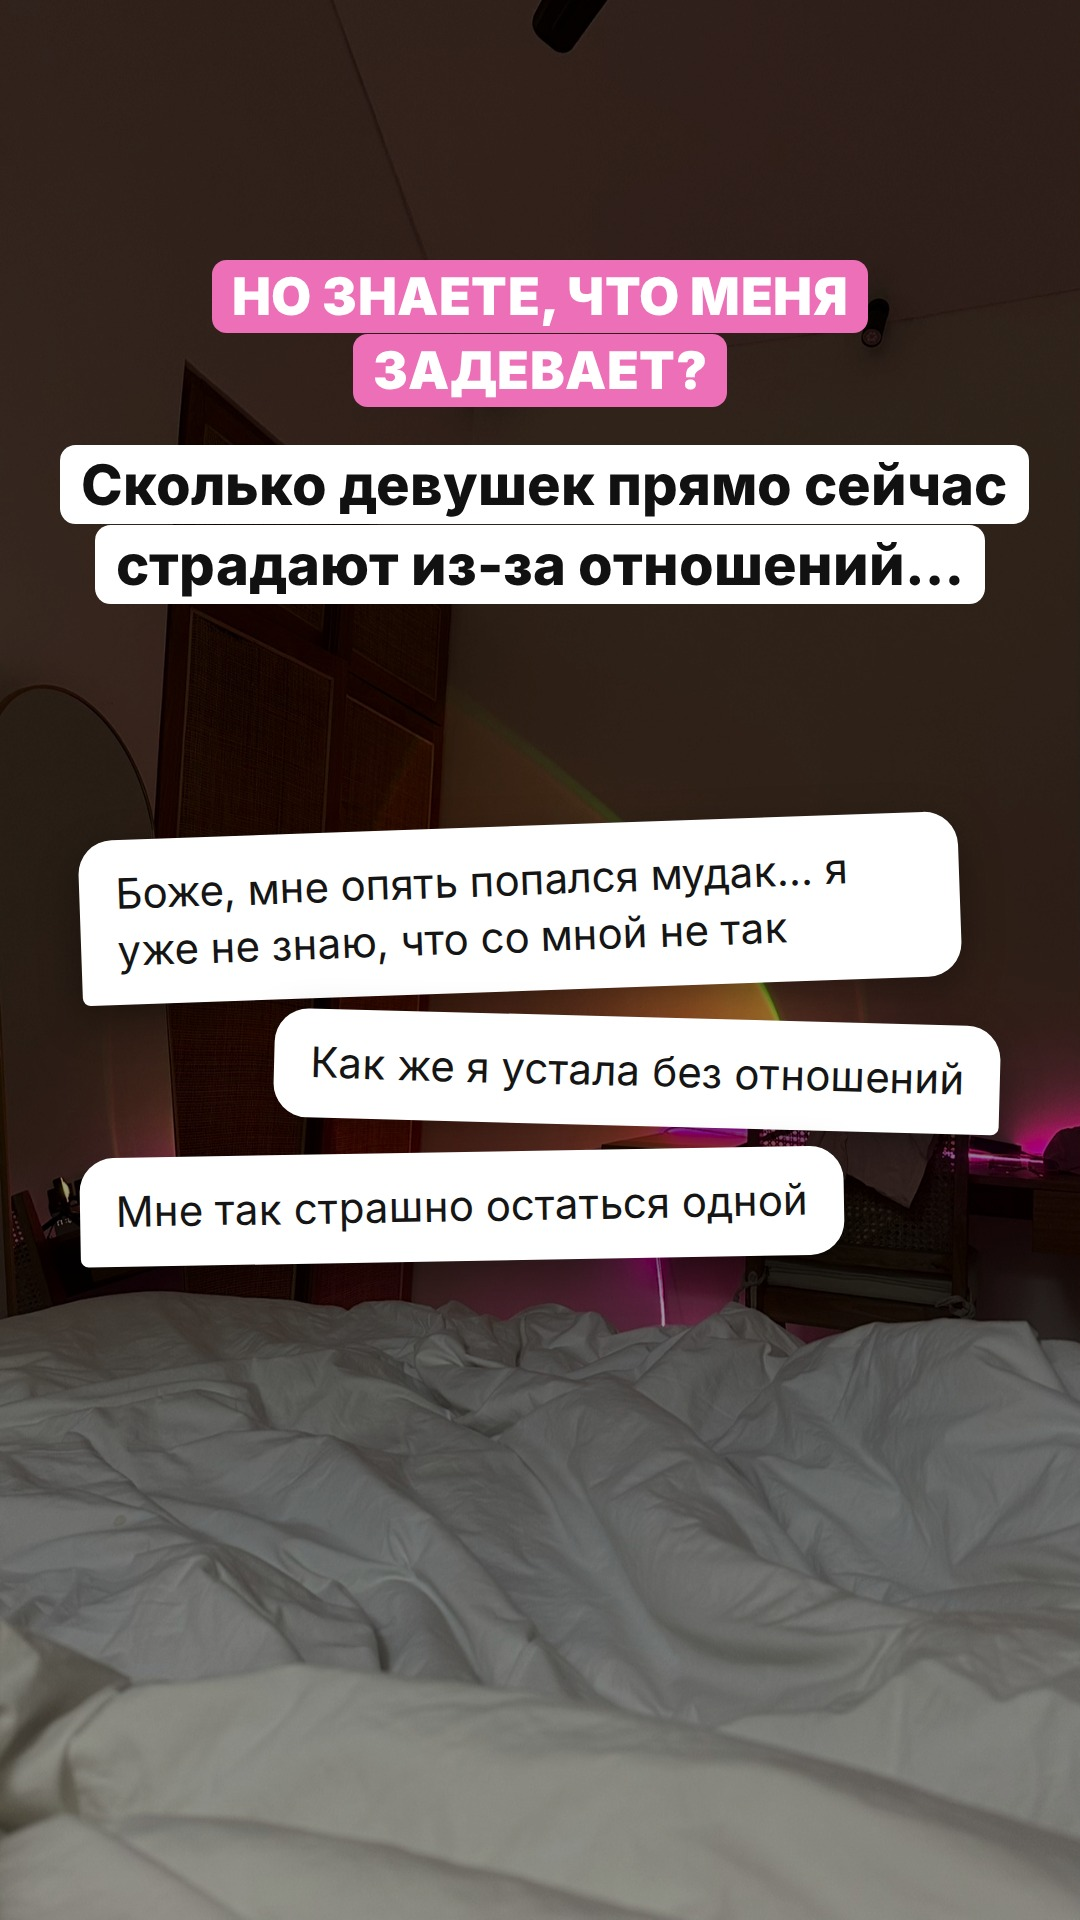
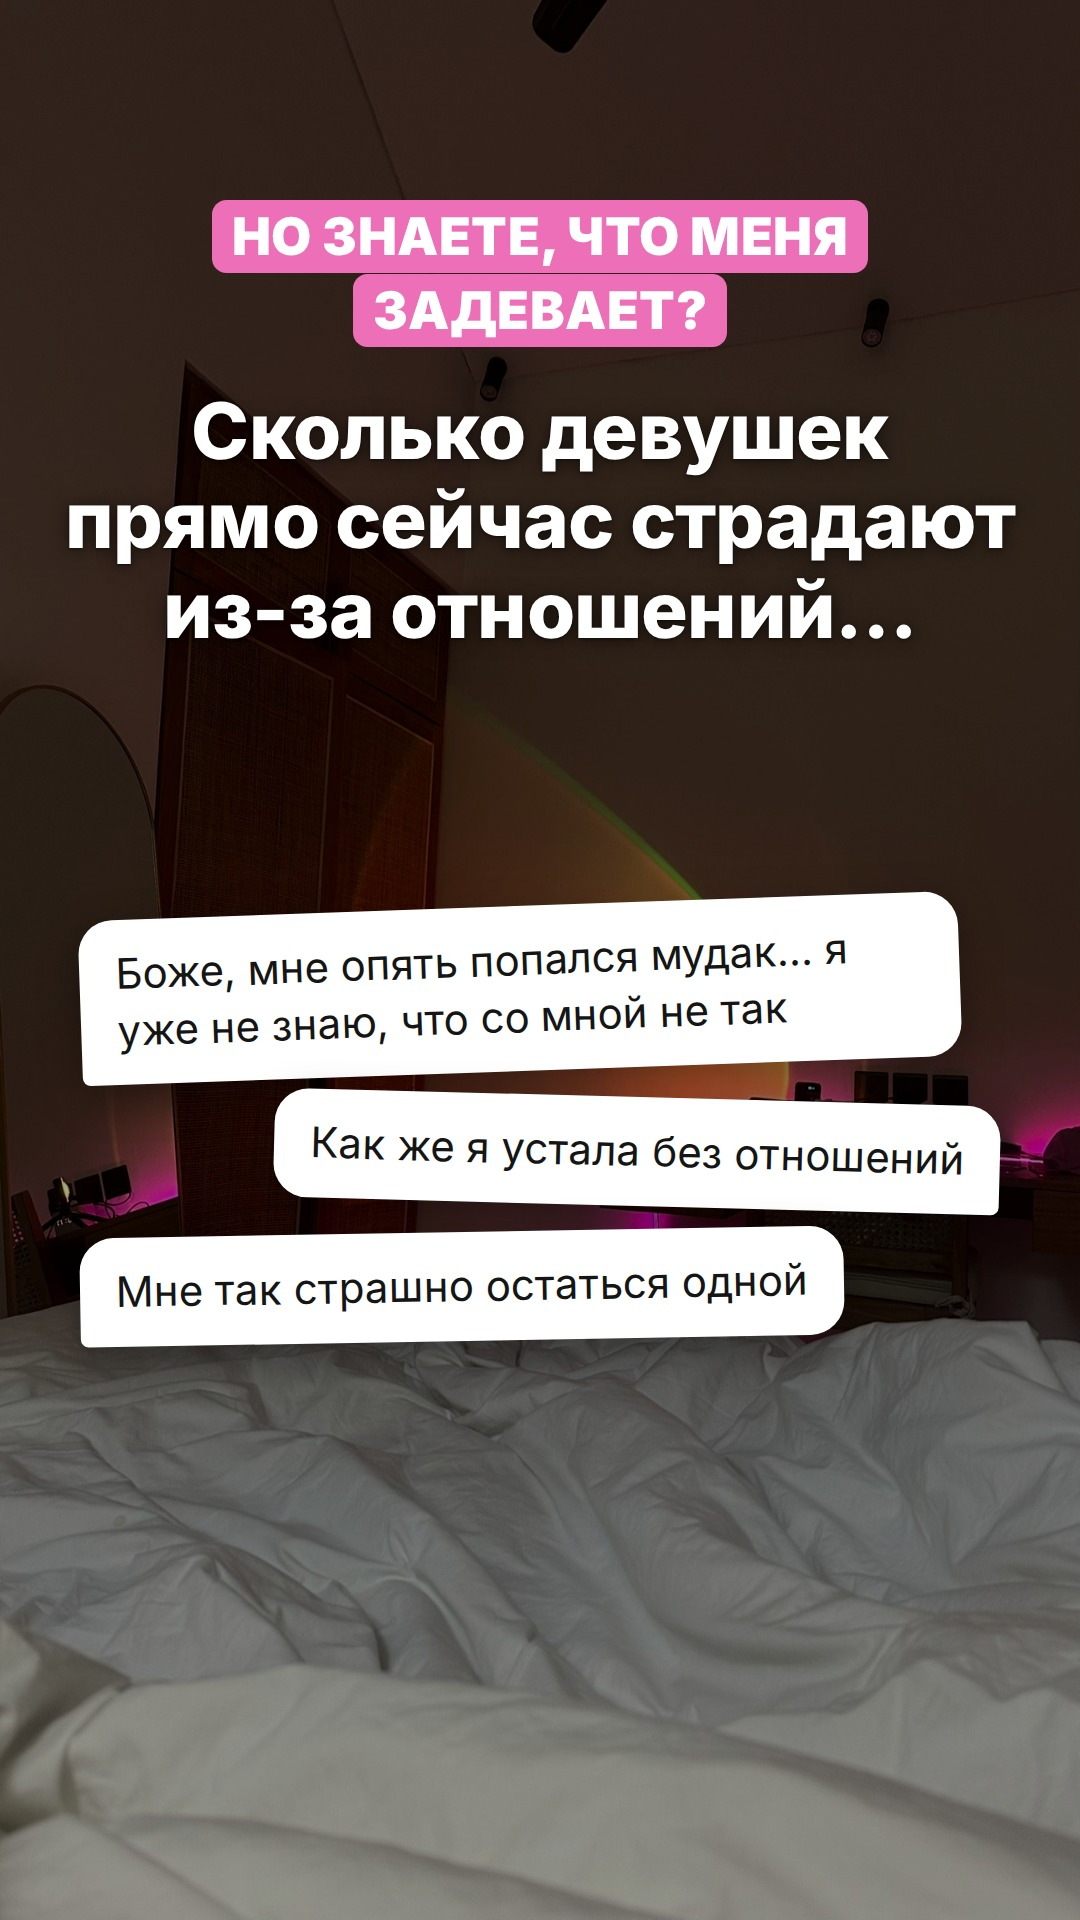
Сторис: все в стиле сторис 2 — ярлык, крупный текст, скрины
Claude-Session: https://claude.ai/code/session_01QvxPhZFmoV4wpS6odsdhe8

Changed region(s): [[0.0611, 0.4062, 0.9472, 0.7188], [0.0306, 0.0938, 0.9778, 0.3438]]

diff --git a/guides/src/stories.js b/guides/src/stories.js
@@ -3,7 +3,7 @@ module.exports = ({ M, P, W, B, E, I, GAP, p, T, SM, N }) => [
   // 1 — лицо в центре, текст сверху и снизу
   { bg:'27.jpg', groups: [
     { top: 170, items: [P('ДЕВОЧКИ, Я В ШОКЕ!!!', 66)] },
-    { top: 1420, items: [W('Моя детская мечта сбылась', 64)] },
+    { top: 1420, items: [T('Моя детская мечта<br>сбылась', 92)] },
   ] },
   // 2 — +5&nbsp;000
   { bg:'21.jpg', groups: [
@@ -26,8 +26,8 @@ module.exports = ({ M, P, W, B, E, I, GAP, p, T, SM, N }) => [
   ] },
   // 6 — комментарии
   { bg:'20.jpg', pos:'50% 20%', groups: [
-    { top: 200, items: [P('ПОСМОТРИТЕ, ЧТО ВЫ ПИШЕТЕ', 50)] },
-    { top: 560, items: [I('s14.JPG', 960, -1.5), GAP(16), I('s10.JPG', 960, 1.5), GAP(16), I('s09.JPG', 960, -1)] },
+    { top: 170, items: [P('ПОСМОТРИТЕ,', 56), T('что вы пишете<br>под моими видео', 80)] },
+    { top: 640, items: [I('s14.JPG', 960, -1.5), GAP(16), I('s10.JPG', 960, 1.5), GAP(16), I('s09.JPG', 960, -1)] },
   ] },
   // 7 — ради таких сообщений
   { bg:'23.jpg', pos:'50% 80%', groups: [
@@ -36,21 +36,23 @@ module.exports = ({ M, P, W, B, E, I, GAP, p, T, SM, N }) => [
   ] },
   // 8 — боль
   { bg:'19.jpg', shade:'rgba(0,0,0,.35)', groups: [
-    { top: 260, items: [P('НО ЗНАЕТЕ, ЧТО МЕНЯ ЗАДЕВАЕТ?', 52), GAP(10), W('Сколько девушек прямо сейчас<br>страдают из-за отношений…', 56)] },
-    { top: 820, items: [M('Боже, мне опять попался мудак… я уже не знаю, что со мной не так', -2), M('Как же я устала без отношений', 1.5), M('Мне так страшно остаться одной', -1)] },
+    { top: 200, items: [P('НО ЗНАЕТЕ, ЧТО МЕНЯ ЗАДЕВАЕТ?', 52), GAP(10), T('Сколько девушек<br>прямо сейчас страдают<br>из-за отношений…', 78)] },
+    { top: 900, items: [M('Боже, мне опять попался мудак… я уже не знаю, что со мной не так', -2), M('Как же я устала без отношений', 1.5), M('Мне так страшно остаться одной', -1)] },
   ] },
   // 9 — заметка с фразами
-  { bg:'02.jpg', groups: [
-    { top: 300, items: [P('Я КАЖДЫЙ ДЕНЬ ЧИТАЮ:', 56)] },
-    { top: 520, items: [N('— «Я опять выбрала не того…»<br>— «Он пропадает, а я продолжаю ждать…»<br>— «Он пишет раз в три дня, а я живу от сообщения до сообщения»<br>— «Все подруги замужем, а я одна»<br>— «Я красивая, успешная, но почему меня никто не выбирает?»<br><br>И многие думают, что <b>проблема в них самих…</b>', 42)] },
+  { bg:'02.jpg', shade:'rgba(0,0,0,.45)', groups: [
+    { top: 200, items: [P('Я КАЖДЫЙ ДЕНЬ ЧИТАЮ:', 56)] },
+    { top: 420, items: [SM('«Я опять выбрала не того…»', 46), GAP(8), SM('«Он пропадает,<br>а я продолжаю ждать…»', 46), GAP(8), SM('«Он пишет раз в три дня, а я живу<br>от сообщения до сообщения»', 46), GAP(8), SM('«Все подруги замужем, а я одна»', 46), GAP(8), SM('«Я красивая, успешная, но почему<br>меня никто не выбирает?»', 46)] },
+    { top: 1330, items: [T('И многие думают,<br>что проблема в них самих…', 64)] },
   ] },
   // 10 — опрос (место под стикер в центре)
   { bg:'26.jpg', groups: [
     { top: 150, items: [P('А ТЫ ХОТЯ БЫ РАЗ', 56), T('чувствовала что-то<br>подобное?', 80)] },
   ] },
   // 11 — идея, заметка на размытом фоне
-  { bg:'03.jpg', groups: [
-    { top: 520, items: [N(`<b style="font-size:52px;line-height:1.2;display:block;margin-bottom:28px">И вот какая идея пришла мне в голову…</b>Я физически не могу ответить на тысячи ваших сообщений.<br><br>А за каждым — настоящая девушка со своей историей.<br><br>Мне хочется не просто записывать видео, а <span class=acc>лично поговорить с вами</span> и помочь разобраться`, 44)] },
+  { bg:'03.jpg', shade:'rgba(0,0,0,.45)', groups: [
+    { top: 220, items: [P('И ВОТ КАКАЯ ИДЕЯ', 56), T('пришла мне в голову…', 70)] },
+    { top: 760, items: [SM('Я физически не могу ответить<br>на тысячи ваших сообщений.', 46), GAP(18), SM('А за каждым — настоящая девушка<br>со своей историей.', 46), GAP(18), SM(`Мне хочется не просто записывать видео,<br>а ${p('лично поговорить с вами')}<br>и помочь разобраться`, 44)] },
   ] },
   // 12 — закрытый девичник
   { bg:'28.jpg', groups: [
@@ -59,9 +61,9 @@ module.exports = ({ M, P, W, B, E, I, GAP, p, T, SM, N }) => [
     { top: 1500, items: [P('25 ОКТЯБРЯ · 15:00 МСК', 56), SM('бесплатно', 46)] },
   ] },
   // 13 — что подготовила
-  { bg:'25.jpg', groups: [
-    { top: 200, items: [P('ЧТО Я ПОДГОТОВИЛА', 58)] },
-    { top: 420, items: [N(`1. Лично разберу <span class=acc>5 ваших историй</span> в прямом эфире<br><br>2. Обычно такой разбор стоит <span class=acc>50&nbsp;000 ₽</span> — для вас бесплатно<br><br>3. Подруги, которые тебя поймут<br><br>4. Слова, которые могут поменять твою жизнь`, 44)] },
+  { bg:'25.jpg', shade:'linear-gradient(rgba(0,0,0,.45),rgba(0,0,0,.2) 45%,rgba(0,0,0,.55))', groups: [
+    { top: 200, items: [P('ЛИЧНО РАЗБЕРУ', 56), GAP(6), B('5', 230), GAP(4), T('ваших историй<br>в прямом эфире', 76)] },
+    { top: 1080, items: [SM(`Обычно такой разбор стоит ${p('50&nbsp;000 ₽')}<br>— для вас бесплатно`, 48), GAP(20), SM('Подруги, которые тебя поймут,<br>и слова, которые могут<br>поменять твою жизнь', 44)] },
   ] },
   // 14 — исключительность, лицо карточкой
   { bg:'18.jpg', filter:'blur(34px) brightness(.9) saturate(1.2)', groups: [
